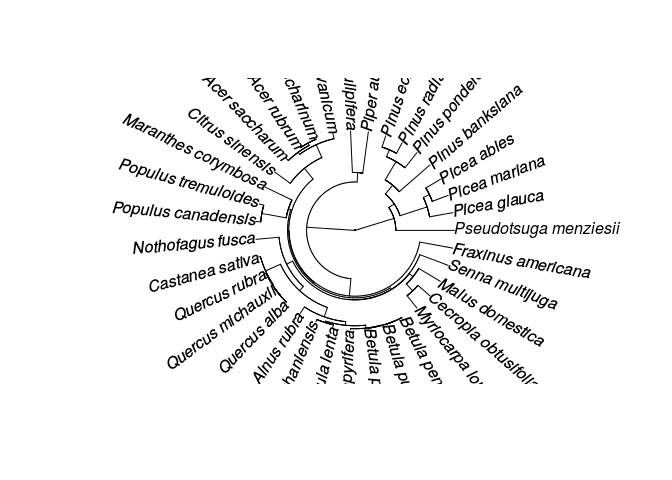
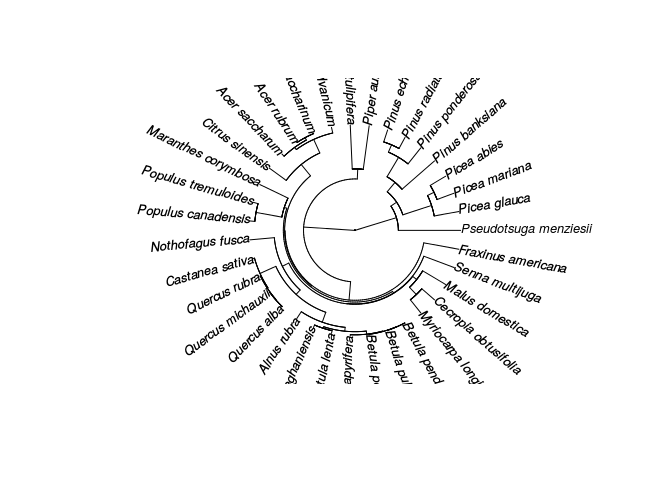
famous last words (part III)

diff --git a/pages/Day4_extra.md b/pages/Day4_extra.md
@@ -28,54 +28,25 @@ curtis_WT$GEN_SPP2<-ifelse(curtis_WT$GEN_SPP2=="Populusx euramericana","Populus 
 spp<-unique(as.character(curtis_WT$GEN_SPP2))
 
 spp2 <- TPL(spp, corr = TRUE, repeats=10) # repeats allows you to re-connect to the TPL server
-
-spp2$new_species<-paste(spp2$New.Genus, spp2$New.Species,sep="_")
-
-head(spp2)
 ```
 
-    ##              Taxon    Genus Hybrid.marker     Species Abbrev
-    ## 1      Alnus rubra    Alnus                     rubra   <NA>
-    ## 2      Acer rubrum     Acer                    rubrum   <NA>
-    ## 3   Quercus prinus  Quercus                    prinus   <NA>
-    ## 4  Malus domestica    Malus                 domestica   <NA>
-    ## 5 Acer saccharinum     Acer               saccharinum   <NA>
-    ## 6  Castanea sativa Castanea                    sativa   <NA>
-    ##   Infraspecific.rank Infraspecific Authority          ID Plant.Name.Index
-    ## 1               <NA>                            kew-6584             TRUE
-    ## 2               <NA>                         kew-2616329             TRUE
-    ## 3               <NA>                          kew-174525             TRUE
-    ## 4               <NA>                             rjp-454             TRUE
-    ## 5               <NA>                         kew-2616367             TRUE
-    ## 6               <NA>                           kew-35042             TRUE
-    ##   TPL.version Taxonomic.status      Family New.Genus New.Hybrid.marker
-    ## 1         1.1         Accepted  Betulaceae     Alnus                  
-    ## 2         1.1         Accepted Sapindaceae      Acer                  
-    ## 3         1.1          Synonym    Fagaceae   Quercus                  
-    ## 4         1.1         Accepted    Rosaceae     Malus                  
-    ## 5         1.1         Accepted Sapindaceae      Acer                  
-    ## 6         1.1         Accepted    Fagaceae  Castanea                  
-    ##   New.Species New.Infraspecific.rank New.Infraspecific New.Authority
-    ## 1       rubra                                                  Bong.
-    ## 2      rubrum                                                     L.
-    ## 3   michauxii                                                  Nutt.
-    ## 4   domestica                                                 Borkh.
-    ## 5 saccharinum                                                     L.
-    ## 6      sativa                                                  Mill.
-    ##        New.ID New.Taxonomic.status  Typo WFormat Higher.level       Date
-    ## 1    kew-6584             Accepted FALSE   FALSE        FALSE 2017-10-18
-    ## 2 kew-2616329             Accepted FALSE   FALSE        FALSE 2017-10-18
-    ## 3  kew-173929             Accepted FALSE   FALSE        FALSE 2017-10-18
-    ## 4     rjp-454             Accepted FALSE   FALSE        FALSE 2017-10-18
-    ## 5 kew-2616367             Accepted FALSE   FALSE        FALSE 2017-10-18
-    ## 6   kew-35042             Accepted FALSE   FALSE        FALSE 2017-10-18
-    ##         new_species
-    ## 1       Alnus_rubra
-    ## 2       Acer_rubrum
-    ## 3 Quercus_michauxii
-    ## 4   Malus_domestica
-    ## 5  Acer_saccharinum
-    ## 6   Castanea_sativa
+    ## Warning in file(file, "rt"): URL 'http://www.theplantlist.org/tpl1.1/
+    ## search?q=Populus+euramericana&csv=true': status was 'Couldn't connect to
+    ## server'
+
+``` r
+spp2$new_species<-paste(spp2$New.Genus, spp2$New.Species,sep="_")
+
+length(unique(spp2$new_species)) #number of unique species identified via TPL
+```
+
+    ## [1] 36
+
+``` r
+length(spp) #number of unique species according to the data set
+```
+
+    ## [1] 37
 
 ``` r
 write.csv(spp2,"/homes/dc78cahe/Dropbox (iDiv)/Teaching/MetaAnalysis_Course/pages/Day4_files/TPL_sppnames.csv",row.names=F)
@@ -102,7 +73,7 @@ length(unique(local_tree$tip.label))
     ## [1] 35
 
 ``` r
-plot(local_tree, type="fan")
+plot(local_tree, type="fan",cex=0.8)
 ```
 
 ![](Day4_extra_files/figure-markdown_github-ascii_identifiers/phyloo-1.png)
@@ -110,3 +81,5 @@ plot(local_tree, type="fan")
 ``` r
 write.tree(local_tree, "/homes/dc78cahe/Dropbox (iDiv)/Teaching/MetaAnalysis_Course/pages/Day4_files/Curtis_phylogeny.tre")
 ```
+
+Note that the pruned phylogeny has 35 unique species.
